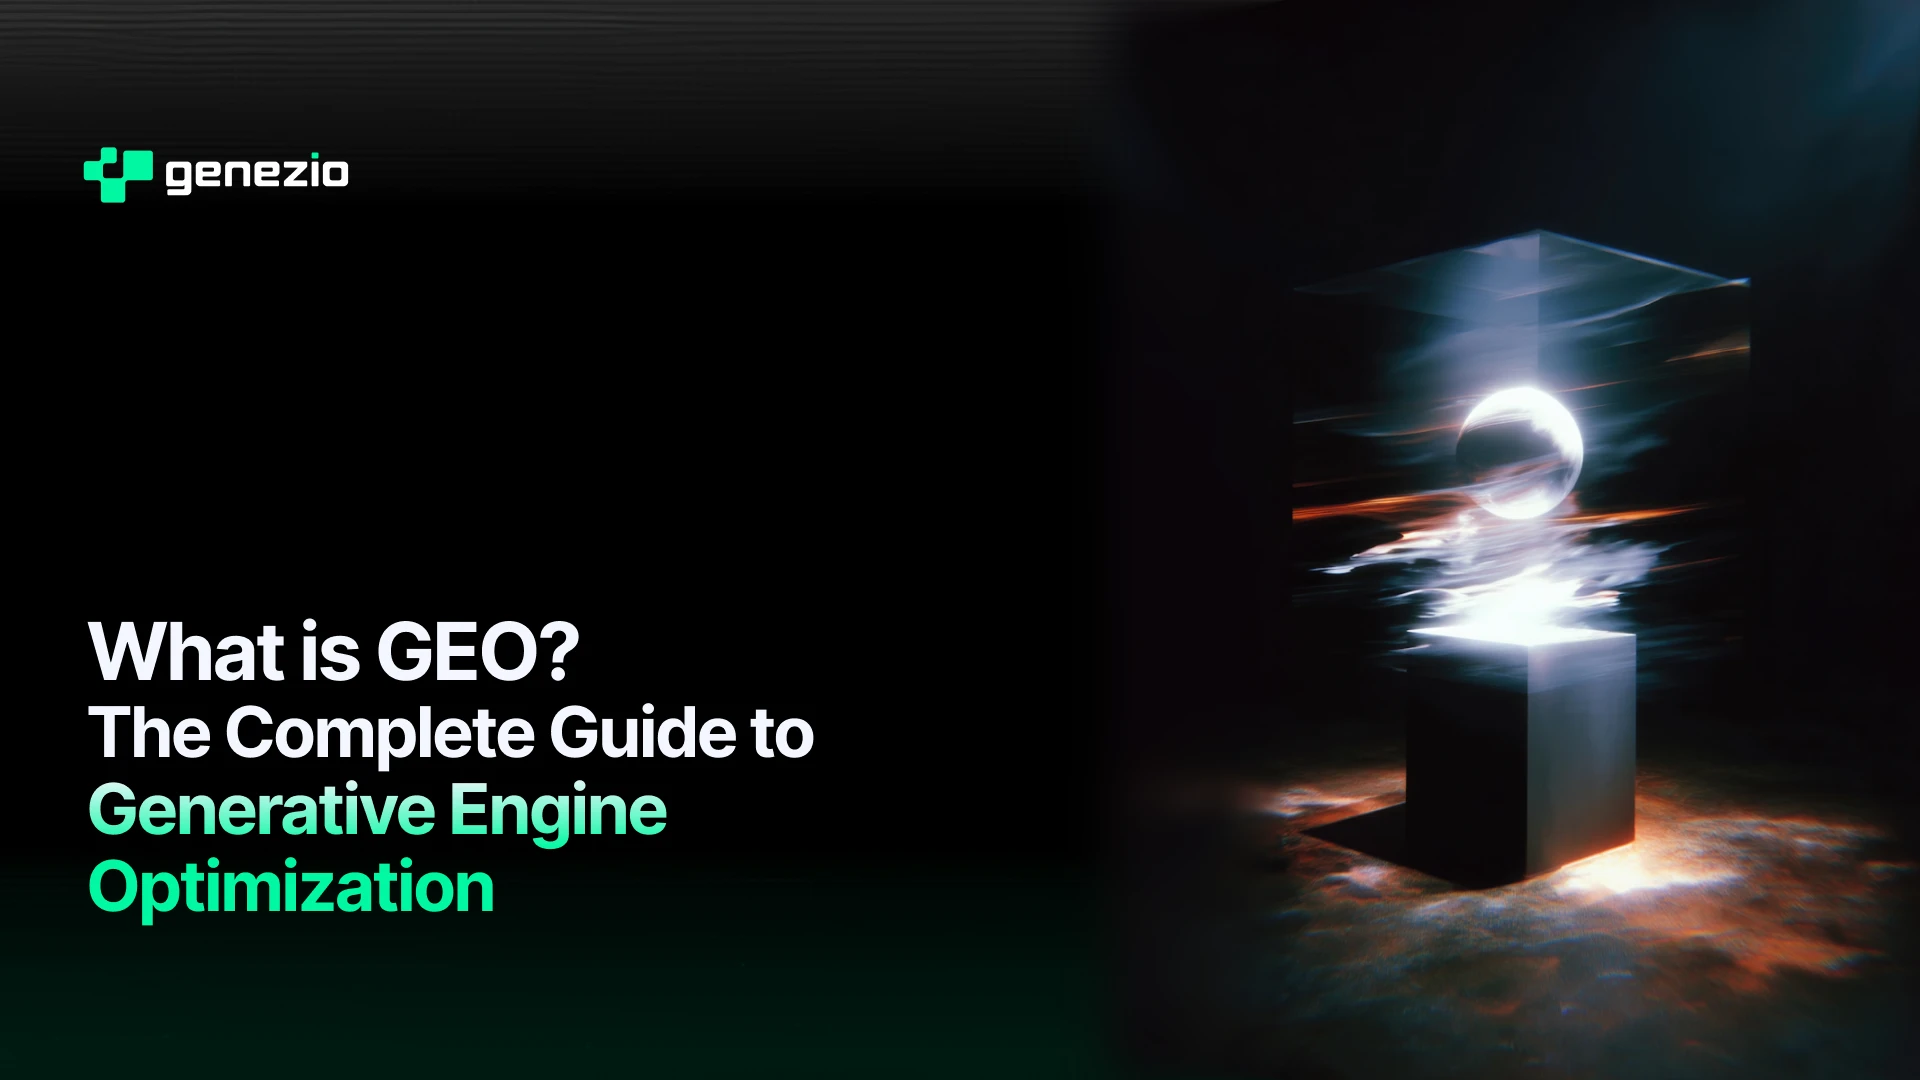
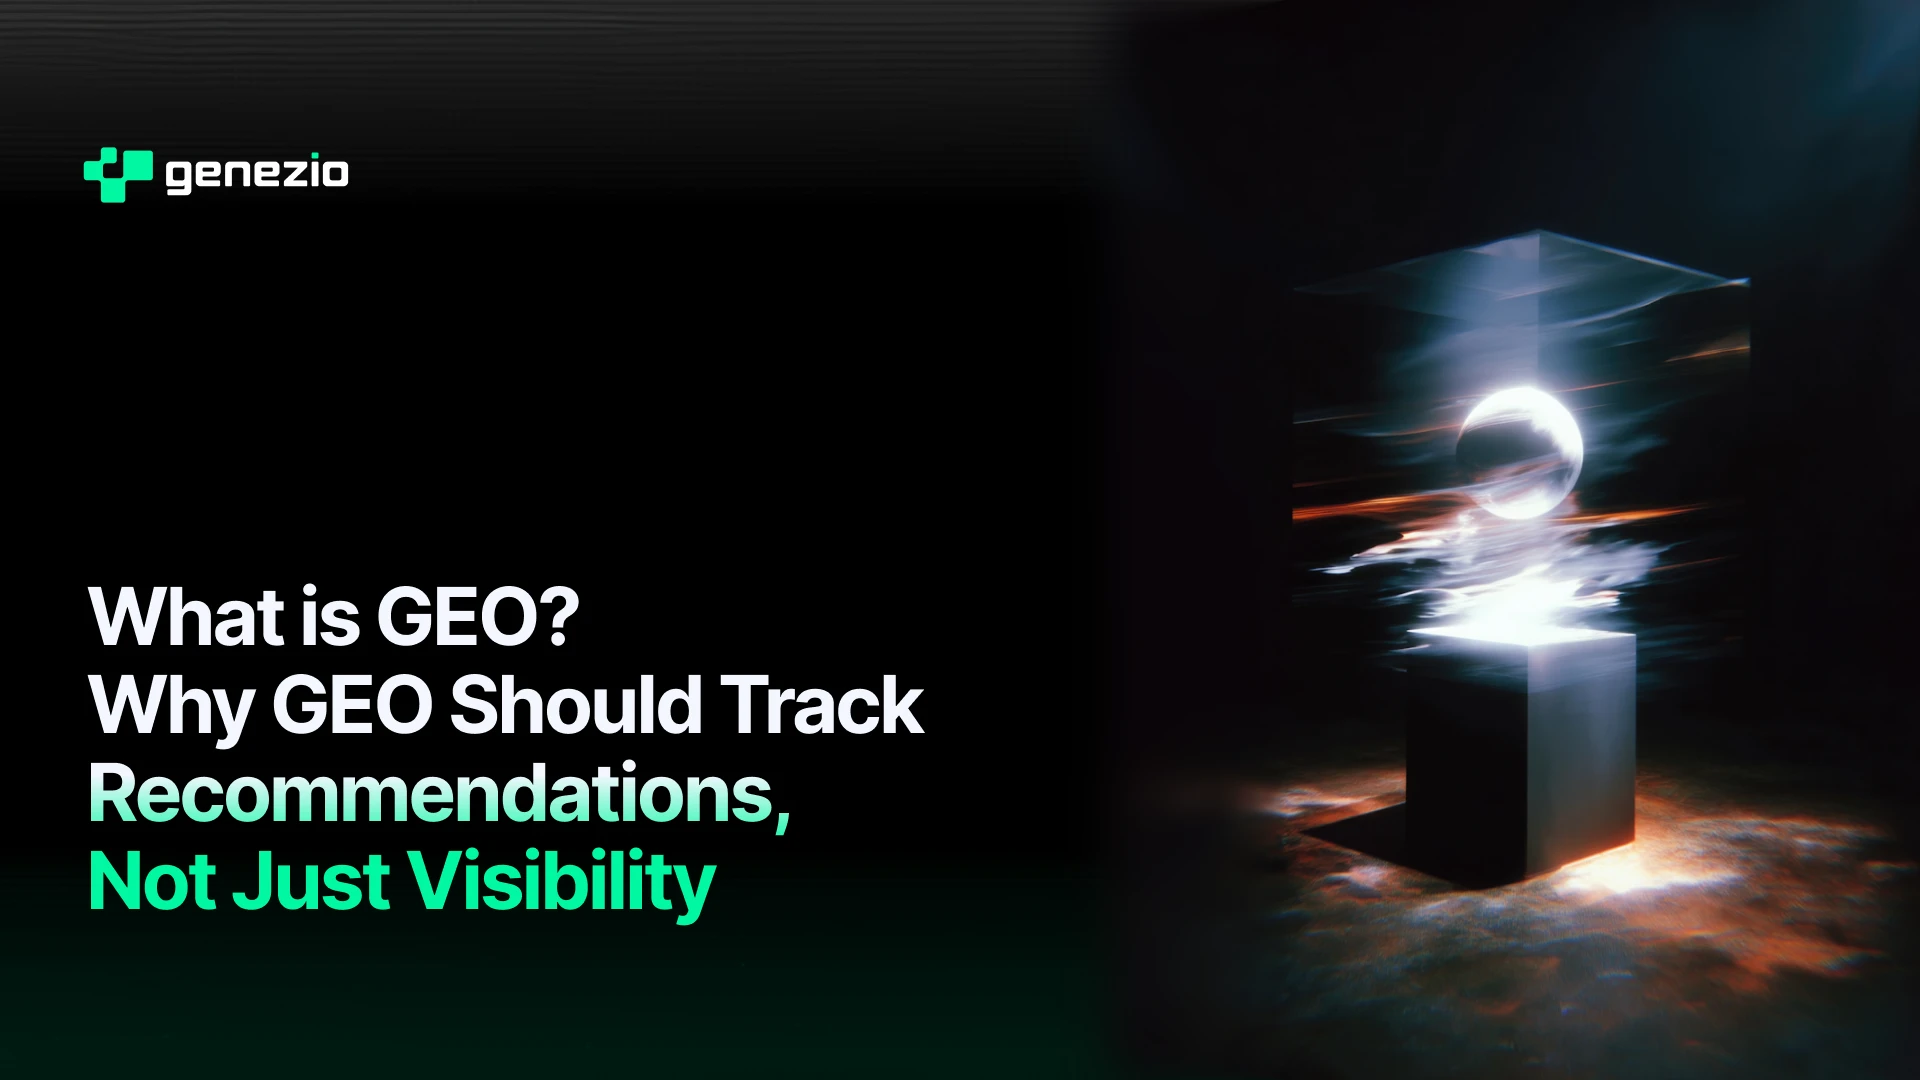
feat: add draft support to post processing and mark GEO guide as draft

Changed region(s): [[0.0312, 0.5194, 0.5, 0.8556]]

diff --git a/new-landing/src/lib/posts.ts b/new-landing/src/lib/posts.ts
@@ -105,6 +105,9 @@ export function getAllPosts(): BlogPost[] {
         const frontmatter = parseFrontmatter(content);
         const filename = path.split("/").pop()?.replace(".md", "") || "";
 
+        // Skip draft posts
+        if (frontmatter.draft === "true") continue;
+
         // Extract tag manually if not in simple frontmatter
         const category = extractFirstTag(content);
 

diff --git a/new-landing/src/posts/what-is-geo-complete-guide.md b/new-landing/src/posts/what-is-geo-complete-guide.md
@@ -1,6 +1,7 @@
 ---
 title: "What is GEO? Why Generative Engine Optimization Should Track Recommendations, Not Just Visibility"
 metaTitle: "What is GEO? Why Recommendations Beat Simple Visibility"
+draft: true
 date: 2026-04-02
 tags:
   - AI